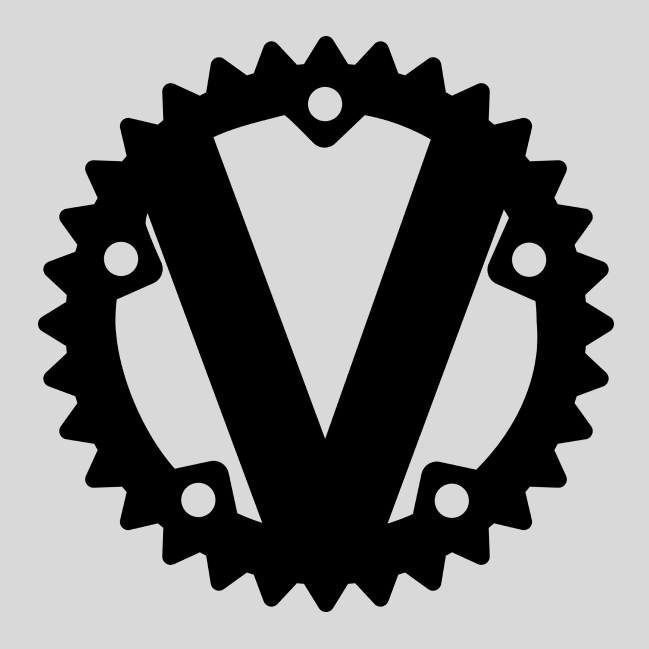
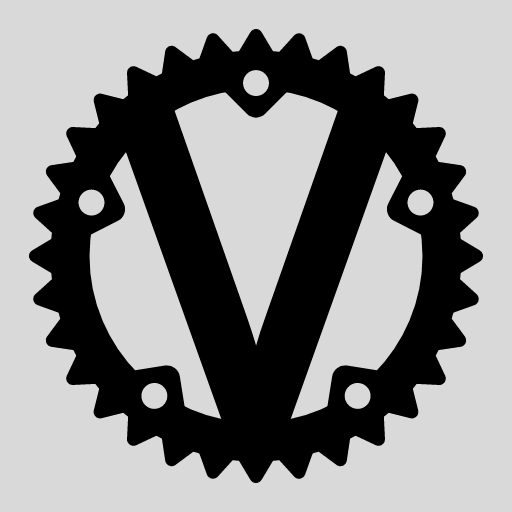
Update/v1.29.2 (#44)
* Latest upstream update

* Add single platform build

* Use new SDK and update clean target

* Added build and release CI

* Standardized and optimized icon

diff --git a/README.md b/README.md
@@ -31,6 +31,20 @@ After setting up your environment, build the `vaultwarden` package by running:
 make
 ```
 
+To build the `vaultwarden` package for a single platform, run:
+
+```
+# for amd64
+make x86
+```
+
+or
+
+```
+# for arm64
+make arm
+```
+
 ## Installing (on StartOS)
 
 Via the StartOS web-UI:
